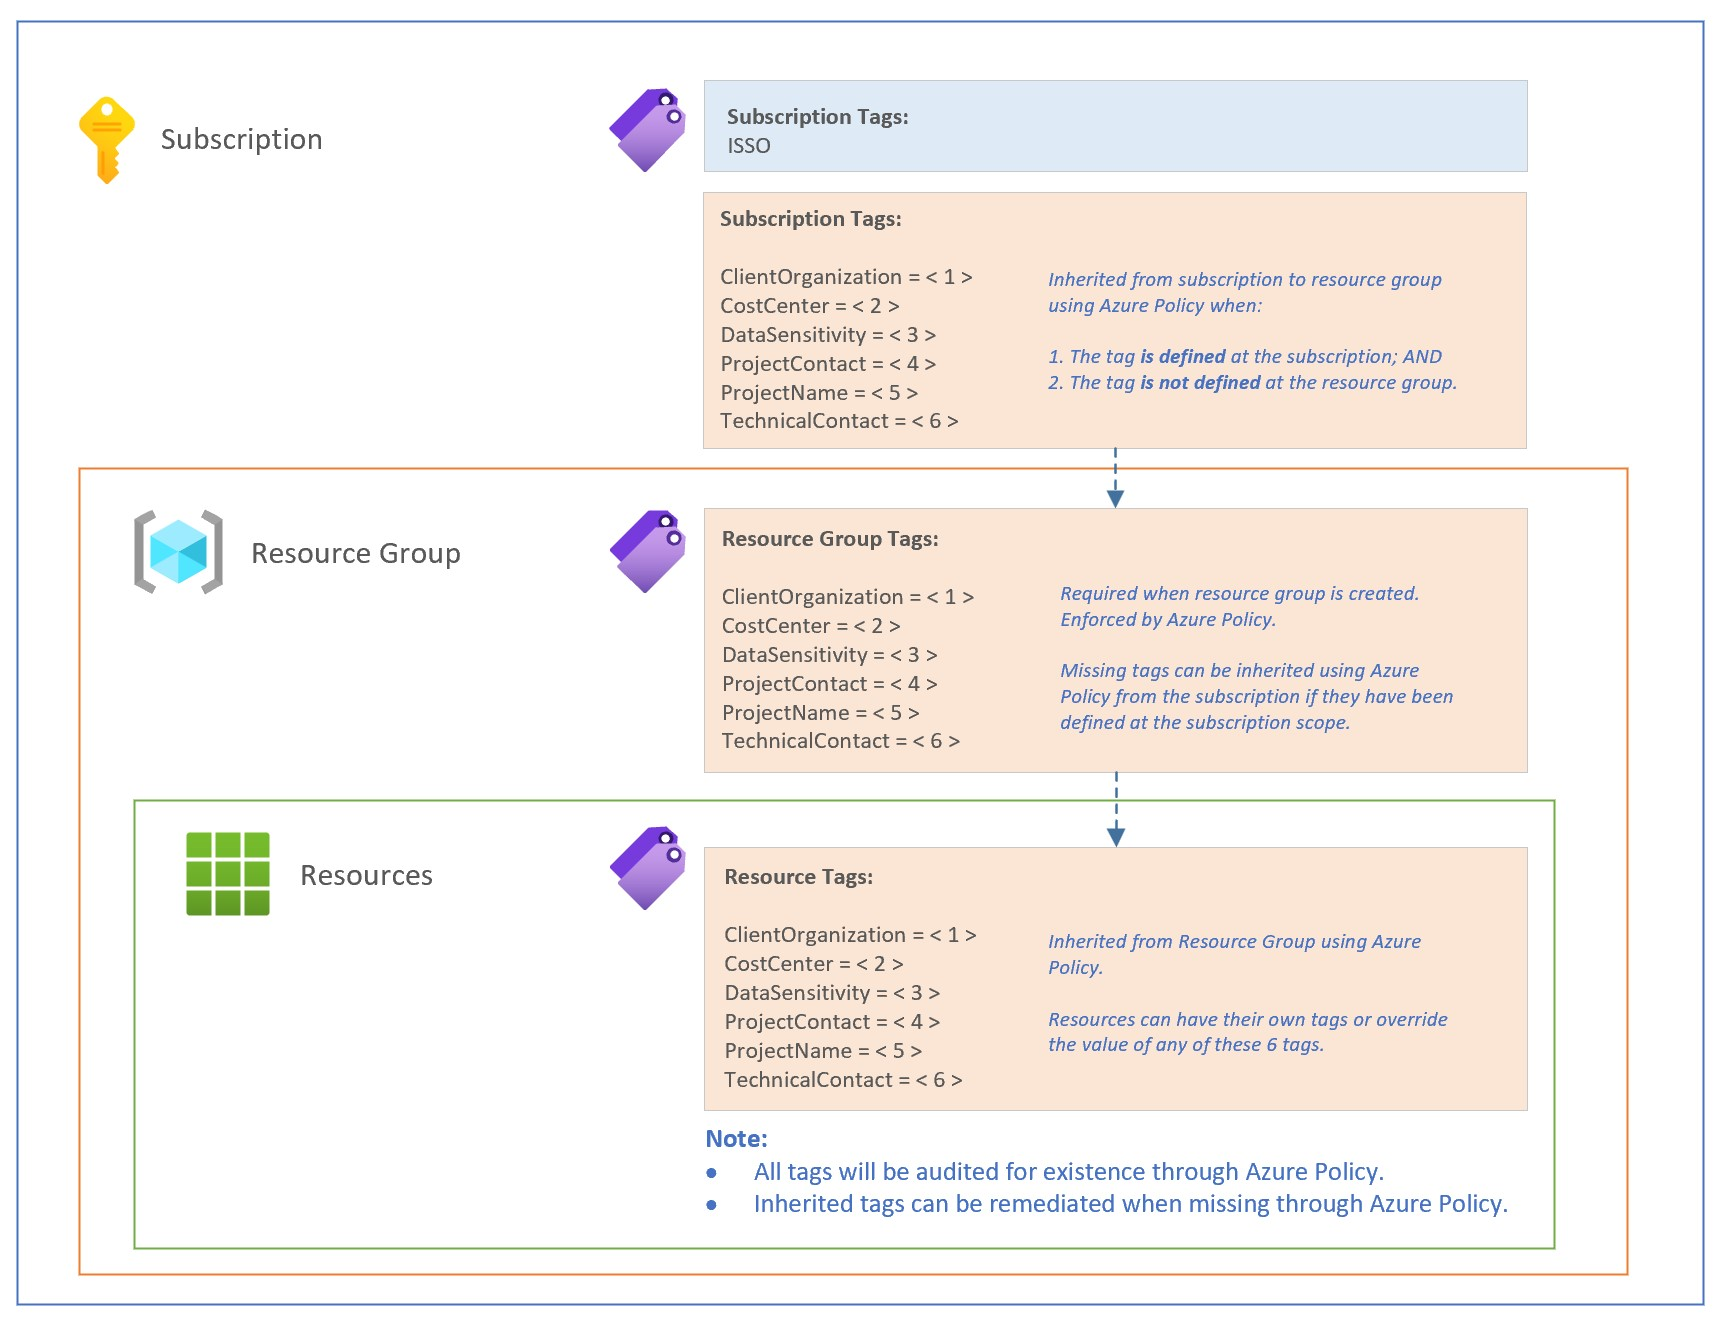
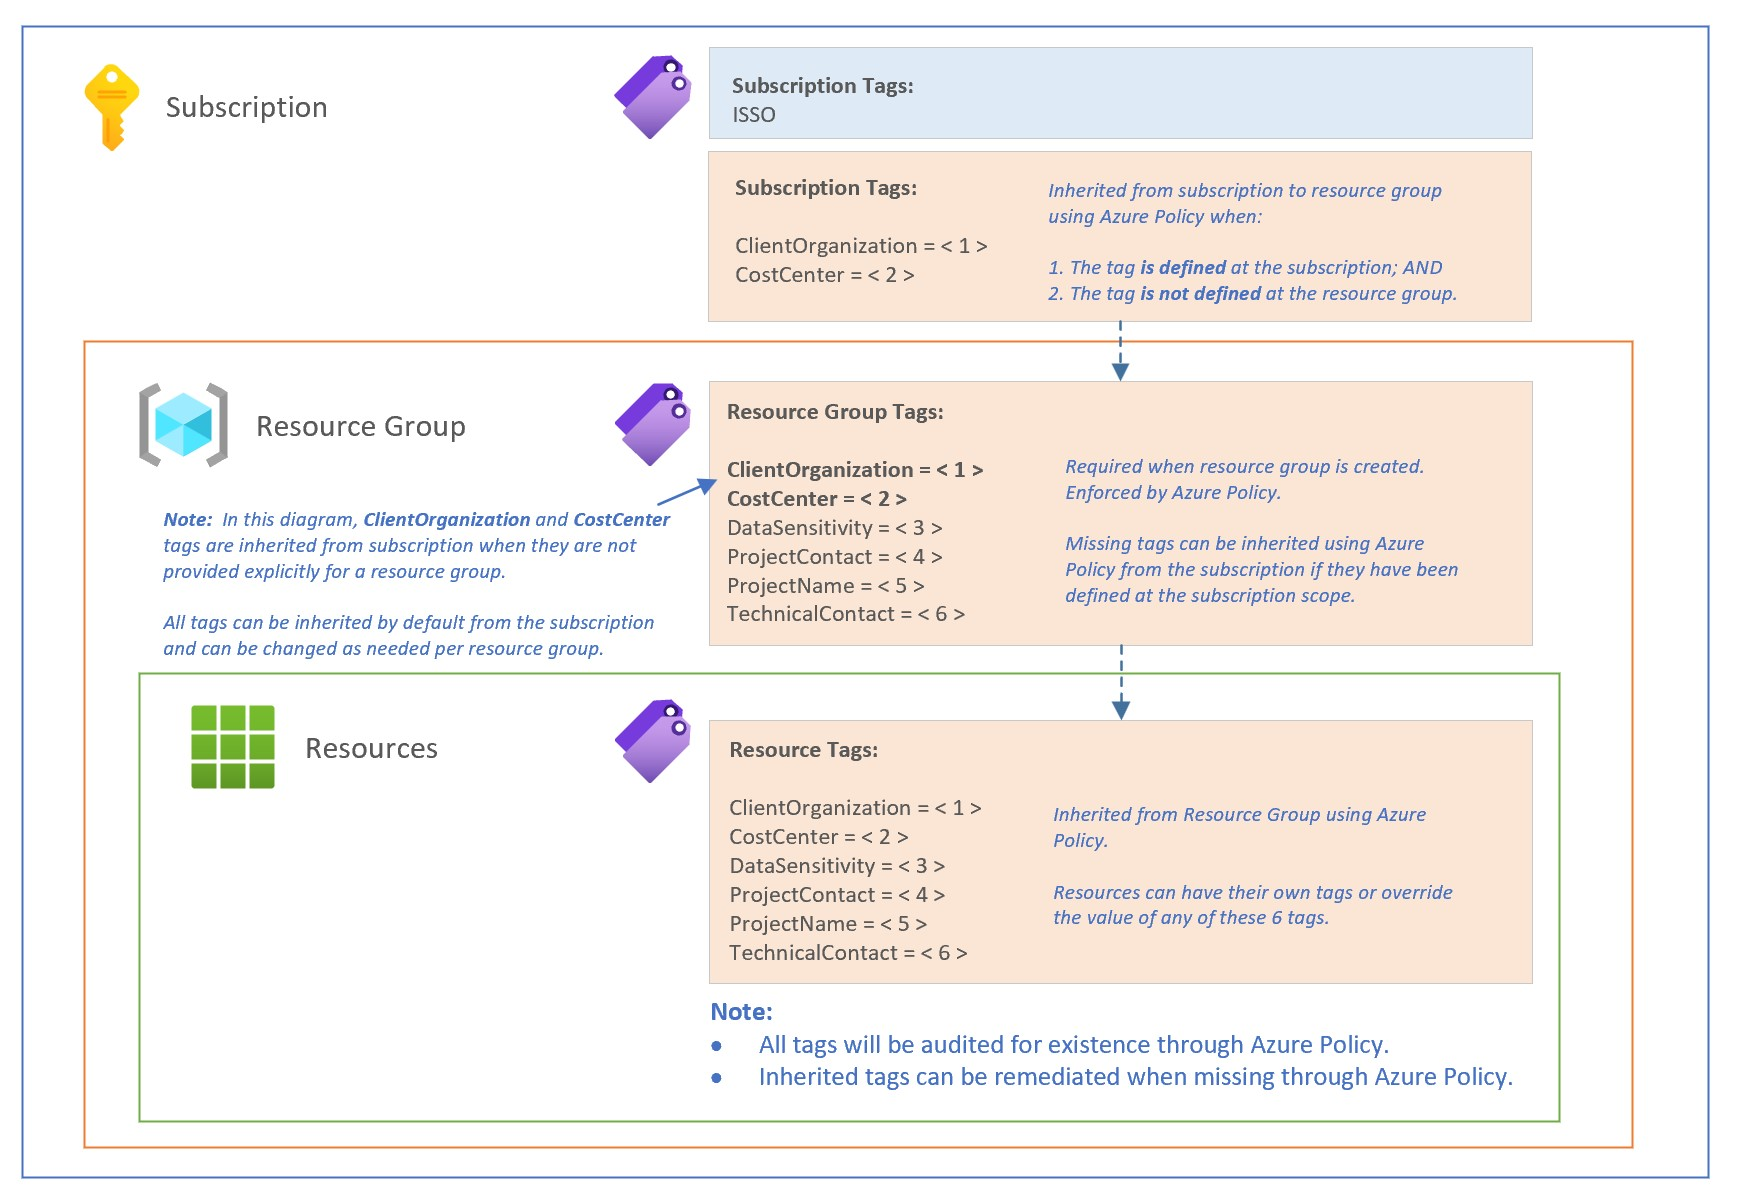
Update doc to describe approaches for adding tags to RGs

Changed region(s): [[0.0, 0.0, 0.9994, 0.9908]]

diff --git a/docs/architecture.md b/docs/architecture.md
@@ -347,6 +347,13 @@ A tagging strategy include business and operational details:
 * The business side of this strategy ensures that tags include the organizational information needed to identify the teams. Use a resource along with the business owners who are responsible for resource costs.
 * The operational side ensures that tags include information that IT teams use to identify the workload, application, environment, criticality, and other information useful for managing resources.
 
+Tags can be assigned to resource groups using 2 approaches:
+
+| Approach | Mechanism |
+| --- | --- |
+| Automatically assigned from the Subscription tags | Azure Policy:  Inherit a tag from the subscription to resource group if missing |
+| Explicitly set on a Resource Group | Azure Portal, ARM templates, CLI, PowerShell, etc. All tags can be inherited by default from subscription and can be changed as needed per resource group. |
+
 Tags can be assigned to resources using 3 approaches:
 
 | Approach | Mechanism |
